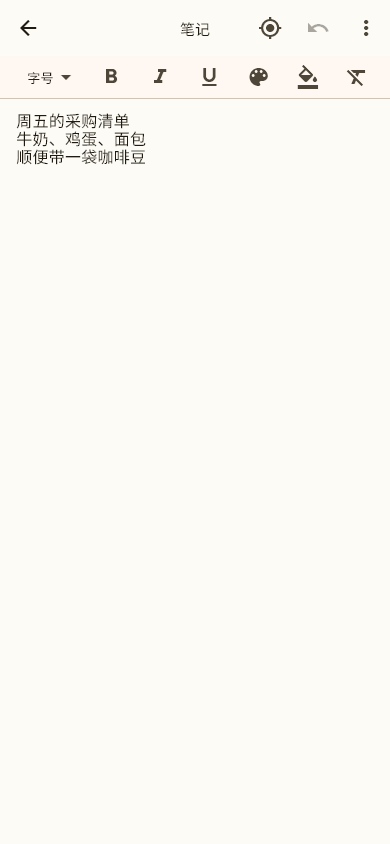
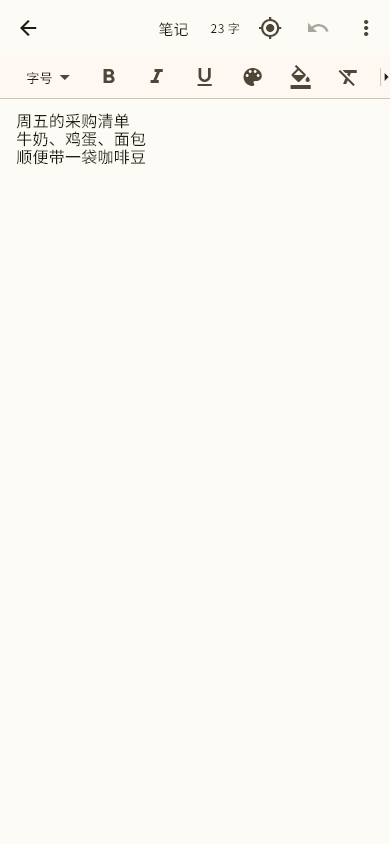
编辑页顶栏加当前字数（1.6.3+25）
在「回到光标」左边显示这篇笔记有多少字，边打边变。

数的是「写了多少字」，不是这串数据有多长：换行、空格、全角空格不算，图片和手写块在正文里占的那个占位符也不算。挂在 controller 上重建，所以跟着输入实时变。

测试：countChars 的单测（中英文、空白、图片/手写占位符、emoji、老格式笔记）、打字时字数跟着变、以及一条窄屏手机上的顶栏排版回归（别把「回到光标」挤走、别折成两行）。

顺带把 README 的三张界面截图重跑了一遍（原来还是 9/20 的，现在带上了这版的顶栏和格式栏）。按用户的规矩当修 bug 处理，版本只叠末位：1.6.2+24 → 1.6.3+25。

diff --git a/test/note_editor_layout_test.dart b/test/note_editor_layout_test.dart
@@ -121,6 +121,48 @@ void main() {
     expect(image.right, lessThan(editor.right - 100));
   });
 
+  testWidgets('右上角显示字数，打字会跟着变', (tester) async {
+    await pumpEditor(tester, '今天开会');
+
+    // 顶栏在「回到光标」左边有一处字数。空白不算，图片/手写块也不算。
+    expect(find.text('4 字'), findsOneWidget);
+
+    // 走和真机输入法一样的路子：编辑器把它交给 controller 去改正文。
+    await tester.tap(find.byType(QuillEditor));
+    await tester.pump();
+    tester.testTextInput.updateEditingValue(
+      const TextEditingValue(
+        text: '今天开会字\n',
+        selection: TextSelection.collapsed(offset: 5),
+      ),
+    );
+    await tester.pumpAndSettle();
+
+    expect(find.text('5 字'), findsOneWidget, reason: '字数要跟着输入变');
+  });
+
+  testWidgets('字数不数图片和换行', (tester) async {
+    await pumpEditor(tester, '看图\n[[img:$imageId]]\n结束');
+
+    // 「看图」+「结束」四个字；图片和两次换行都不算。
+    expect(find.text('4 字'), findsOneWidget);
+  });
+
+  testWidgets('窄屏手机上顶栏多了字数也不会挤爆', (tester) async {
+    tester.view.physicalSize = const Size(360 * 3, 640 * 3);
+    tester.view.devicePixelRatio = 3;
+    addTearDown(tester.view.reset);
+
+    await pumpEditor(tester, '今天开会');
+
+    expect(tester.takeException(), isNull, reason: '顶栏这一排放不下会报 overflow');
+    final counter = tester.getRect(find.text('4 字'));
+    final caret = tester.getRect(find.byTooltip('回到光标'));
+    expect(counter.height, lessThan(30), reason: '字数被挤成两行了');
+    expect(counter.right, lessThanOrEqualTo(caret.left), reason: '字数盖住了「回到光标」');
+    expect(find.byIcon(Icons.more_vert), findsOneWidget);
+  });
+
   testWidgets('图片独占一行，不会压住前面那行文字', (tester) async {
     await pumpEditor(tester, '第一行\n[[img:$imageId]]\n第二行');
 

diff --git a/test/note_text_test.dart b/test/note_text_test.dart
@@ -53,4 +53,34 @@ void main() {
     expect(imageIdsIn('普通正文，没有图片').isEmpty, isTrue);
     expect(imageIdsIn('[[img:不是uuid]]').isEmpty, isTrue);
   });
+
+  group('数正文有多少字', () {
+    test('中文字一个字算一个', () {
+      expect(countChars('今天开会'), 4);
+      expect(countChars(''), 0);
+    });
+
+    test('换行、空格、全角空格都不算', () {
+      expect(countChars('今天 开会\n第二行'), 7);
+      expect(countChars('　全角空格　'), 4);
+      expect(countChars('   \n\n  '), 0);
+    });
+
+    test('图片和手写块不算字', () {
+      // 它们在正文里各占一个 \\uFFFC 的位子。
+      expect(countChars('看图\uFFFC结束'), 4);
+      expect(countChars('\uFFFC'), 0);
+    });
+
+    test('emoji 这样的字符按一个算', () {
+      expect(countChars('开心😀'), 3);
+    });
+
+    test('老格式的笔记打开后，图片标记也不占字数', () {
+      const inkId = '44444444-4444-4444-4444-444444444444';
+      // 老格式的 [[ink:…]] 打开时会换成内嵌块，不再是一串看得见的字。
+      final document = RichBody.documentFrom('标题\n[[ink:$inkId]]');
+      expect(countChars(document.toPlainText()), 2);
+    });
+  });
 }

diff --git a/lib/ui/note_edit_page.dart b/lib/ui/note_edit_page.dart
@@ -1496,6 +1496,20 @@ class _NoteEditPageState extends State<NoteEditPage> {
       centerTitle: true,
       actions: [
         if (!_needsUnlock && controller != null)
+          // 字数：跟着正文变，所以挂在 controller 上重建。
+          ListenableBuilder(
+            listenable: controller,
+            builder: (context, _) => Center(
+              child: Padding(
+                padding: const EdgeInsets.symmetric(horizontal: 6),
+                child: Text(
+                  '${countChars(controller.document.toPlainText())} 字',
+                  style: Theme.of(context).textTheme.bodySmall,
+                ),
+              ),
+            ),
+          ),
+        if (!_needsUnlock && controller != null)
           IconButton(
             tooltip: '回到光标',
             icon: const Icon(Icons.my_location),

diff --git a/lib/util/note_text.dart b/lib/util/note_text.dart
@@ -120,6 +120,20 @@ int uncheckedCount(String body) => uncheckedTodos(body).length;
 
 final Map<String, List<UncheckedTodo>> _todoCache = {};
 
+/// 空白字符，外加图片/手写块在正文里的那个占位符。
+///
+/// Dart 的 `\s` 跟着 ECMAScript 走，全角空格、不换行空格这些都算在内。
+final RegExp _notAChar = RegExp(r'[\s\uFFFC]', unicode: true);
+
+/// 数一段正文有多少字。
+///
+/// 空白（换行、空格、全角空格）不算，图片和手写块那种占位符也不算——
+/// 用户想知道的是「写了多少字」，不是这串数据有多长。
+int countChars(String text) {
+  if (text.isEmpty) return 0;
+  return text.replaceAll(_notAChar, '').runes.length;
+}
+
 String _plainTextFromOps(List<dynamic> ops) {
   final buffer = StringBuffer();
   for (final op in ops) {

diff --git a/README.md b/README.md
@@ -32,6 +32,7 @@ Flutter 一套代码出两端，Supabase 负责登录、存储和实时推送，
 - 正文里可以插入日期、日期时间，也可以把**网址**和**本机文件**做成链接：
   电脑上点一下链接就打开浏览器，文件链接交给系统默认程序打开；
   手机上点一下只放光标，长按弹「打开链接／复制链接／删除链接」
+- 编辑页顶栏显示当前字数，边打边变（空白和图片/手写块不计）
 - 桌面端可以直接把剪切板里的图片粘进笔记（右键菜单里选「粘贴图片」）
 - 桌面端可以把文件或选中的文字从别处直接拖进笔记
 - 笔记里可以插入手写画布，点开全屏用指头或笔写画
@@ -189,6 +190,12 @@ test/                测试
 
 从新到旧排列。括号里是构建号和这一版打包的日期（同一天里连着改的几版会共用日期）。
 只列用户能感觉到的变化。
+
+### 1.6.3（构建号 25 · 2026-09-24）
+
+- 新增：编辑页顶栏（「回到光标」左边）显示**当前字数**，边打边变。
+  空白（换行、空格、全角空格）不算，图片和手写块也不算——数的是写了多少字，
+  不是这串数据有多长。
 
 ### 1.6.2（构建号 24 · 2026-09-22）
 
@@ -432,7 +439,7 @@ test/                测试
 flutter test
 ```
 
-183 个测试，另外 1 个真实后端联调测试默认跳过。同步引擎用内存版的本地库和远端来测，
+191 个测试，另外 1 个真实后端联调测试默认跳过。同步引擎用内存版的本地库和远端来测，
 不依赖网络，覆盖笔记的增删改与冲突副本、目录的增删改与归属迁移、图片上传下载与回收、
 导入的编码识别、口令派生与校验，以及界面层的目录切换、误删撤销、加锁解锁流程。
 富文本部分单独测了老笔记的转换、正文存取往返、内嵌块的插入位置，以及编辑页里
@@ -449,6 +456,8 @@ flutter test
 连着两版的链接与画布问题也各钉了一条回归：插入链接的弹框填光秃秃的域名时
 「确定」不能是灰的、电脑上点链接要直接打开（手机上点一下不该打开）、
 手写画布放大拖动过的位置再进来要还停在那儿、关掉「移动画布」不能把画面弹回正中。
+字数那块也单测了「空白和图片不算字」「打字时跟着变」，外加一条窄屏手机上
+顶栏不会被挤爆的排版回归。
 
 `test/live_backend_test.dart` 是可选的真实后端联调测试，会真的建两台模拟设备跑一遍
 完整同步，包括跨账号隔离。需要显式开启并传入一个专用测试账号（不要用自己日常的账号，
